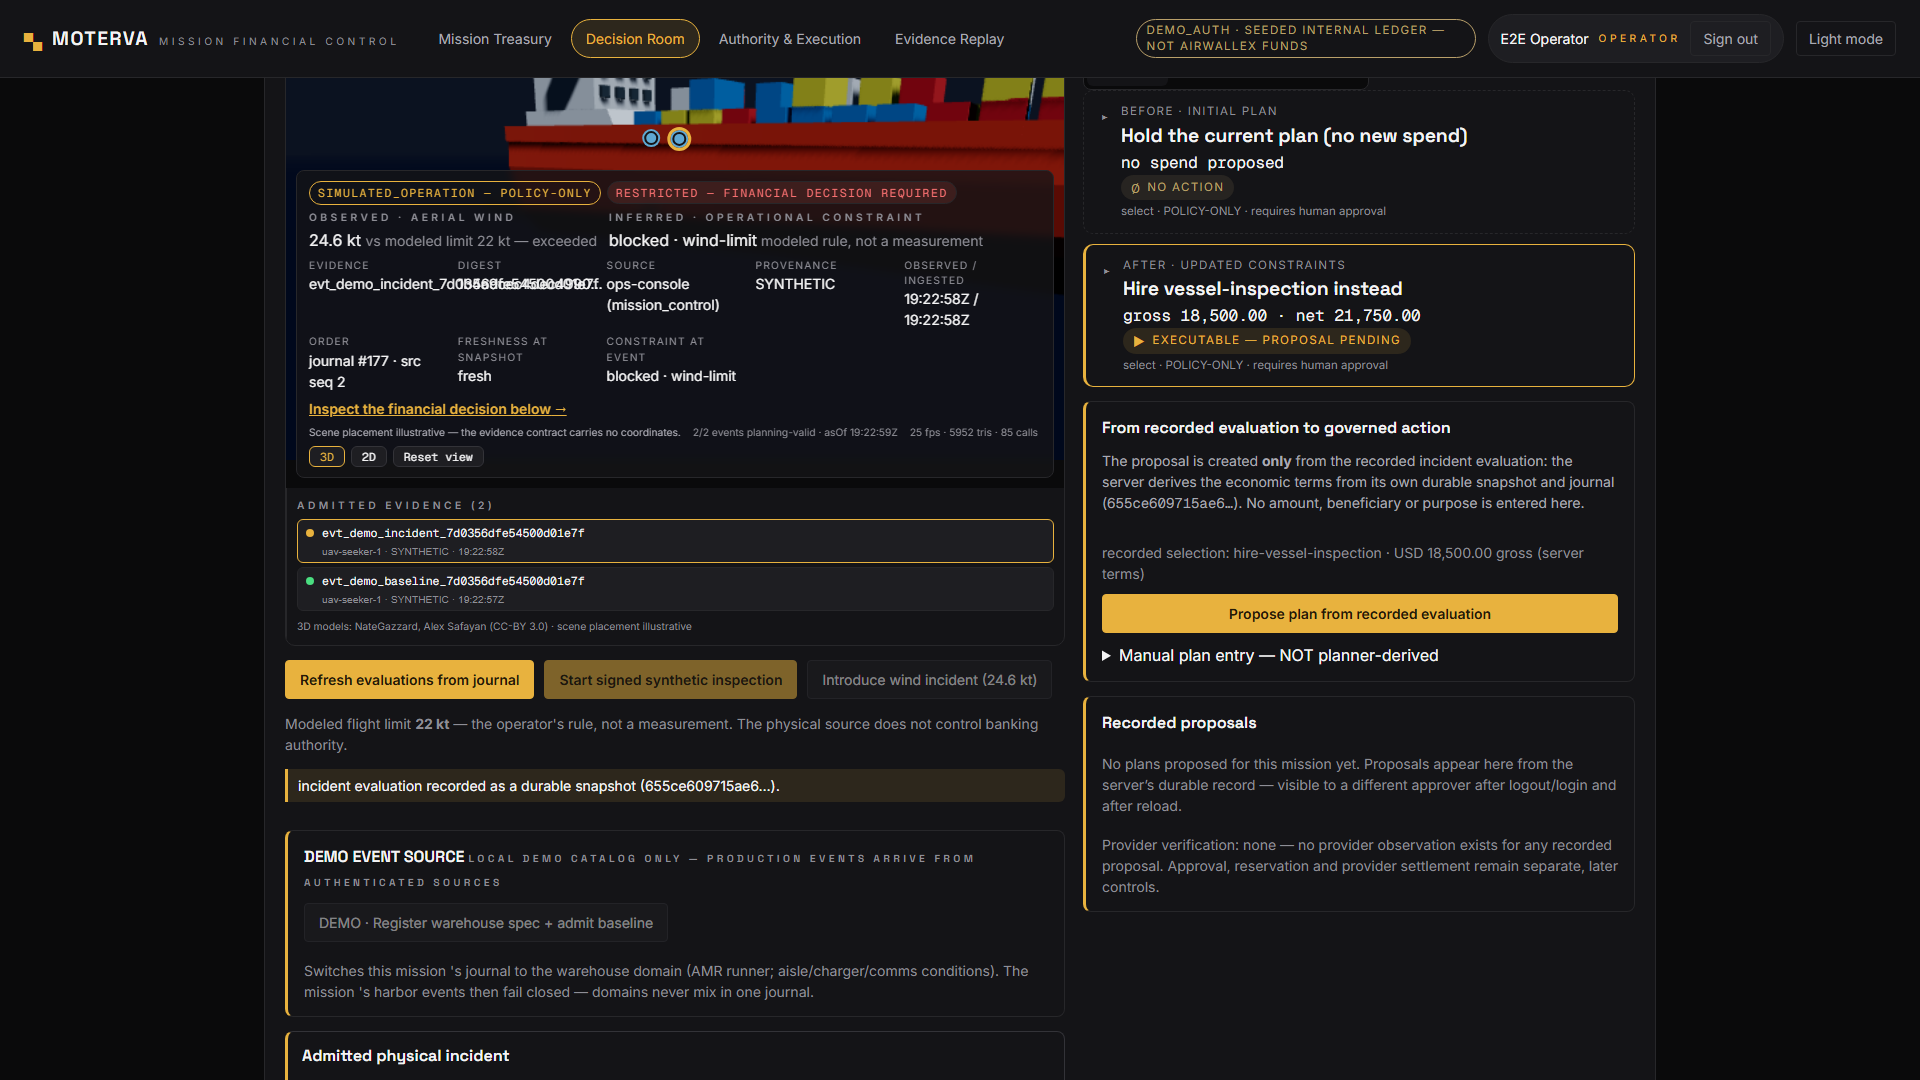
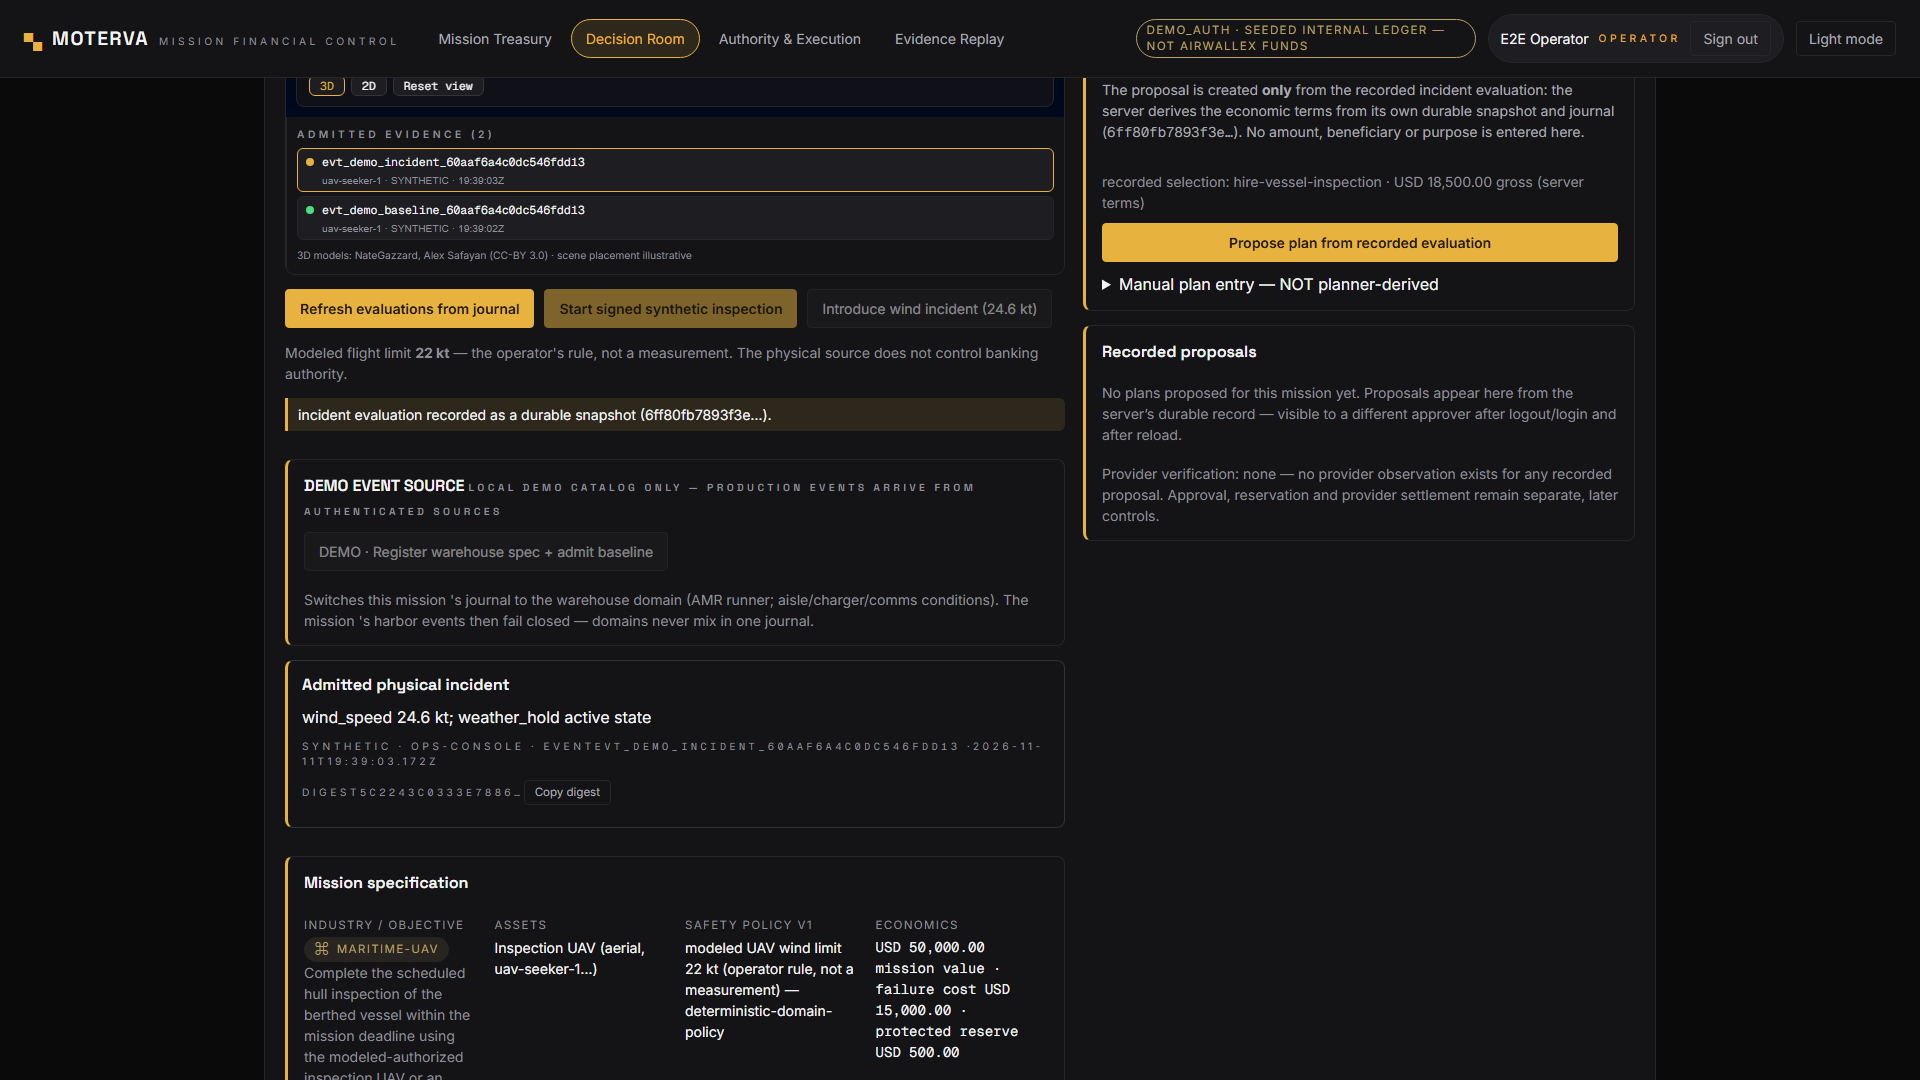
fix(mtv-20): viewer module clipped inside the physical column at narrow widths
The mpv module's mpv-card 180px minimum (x2 columns in mpv-selected) created an intrinsic floor of ~362px, pushing scrollWidth past 320 when the viewer mounted live. The composition now clips the physical column below 480px — the viewer is decorative at that width; financial controls remain fully accessible.

diff --git a/apps/web/src/styles.css b/apps/web/src/styles.css
@@ -2300,10 +2300,10 @@ a {
 /* R-final: constrain Agent C's viewer to its container at narrow widths —
    the mpv HUD rows wrap rather than pushing the document wide. */
 .mv-droom__physical .mpv {
-  grid-template-columns: minmax(0, 1fr) !important;
   min-width: 0;
   max-width: 100%;
   overflow: hidden;
+  grid-template-columns: minmax(0, 1fr);
 }
 .mv-droom__physical [class*='mpv-'] {
   min-width: 0;
@@ -2328,5 +2328,14 @@ a {
 @media (max-width: 480px) {
   .mv-droom__physical .mpv-selected {
     grid-template-columns: 1fr;
+  }
+}
+
+/* R-final: the viewer module is decorative at narrow widths — clip inside the
+   physical column rather than letting the module's intrinsic min-content
+   width push the document past the viewport. */
+@media (max-width: 480px) {
+  .mv-droom__physical {
+    overflow-x: hidden;
   }
 }
